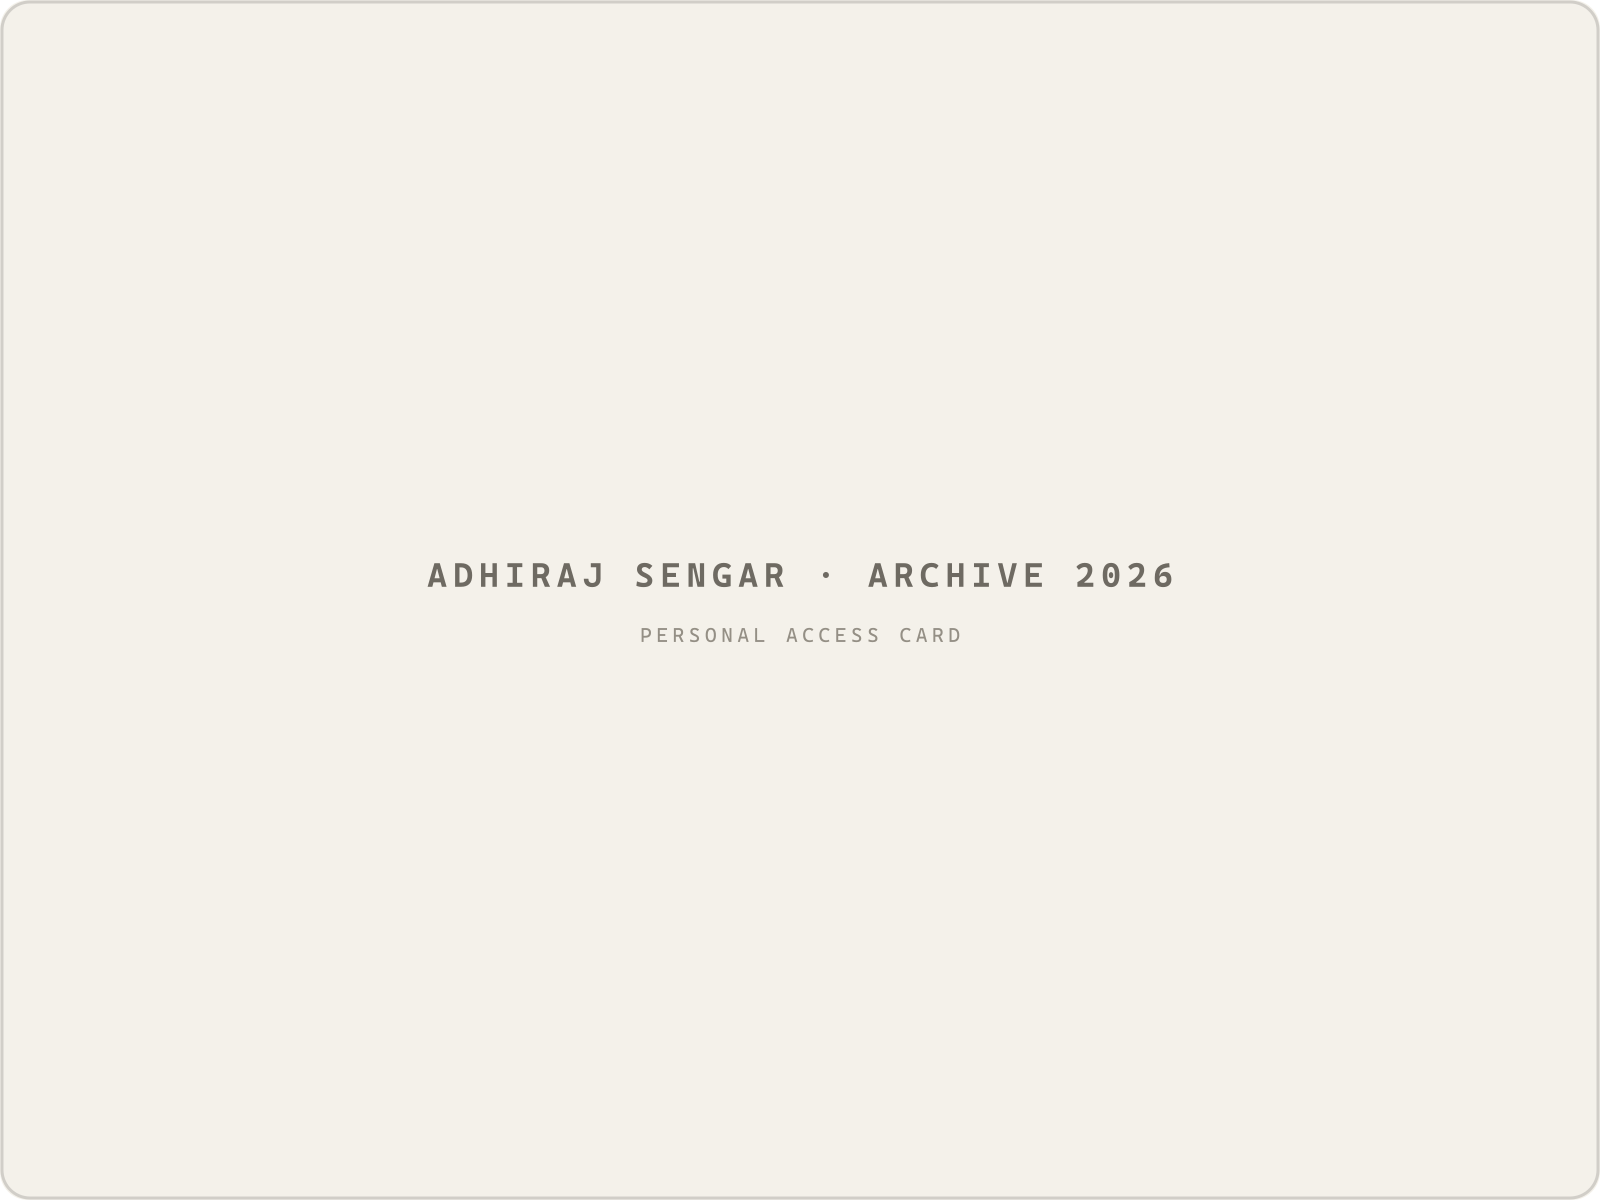
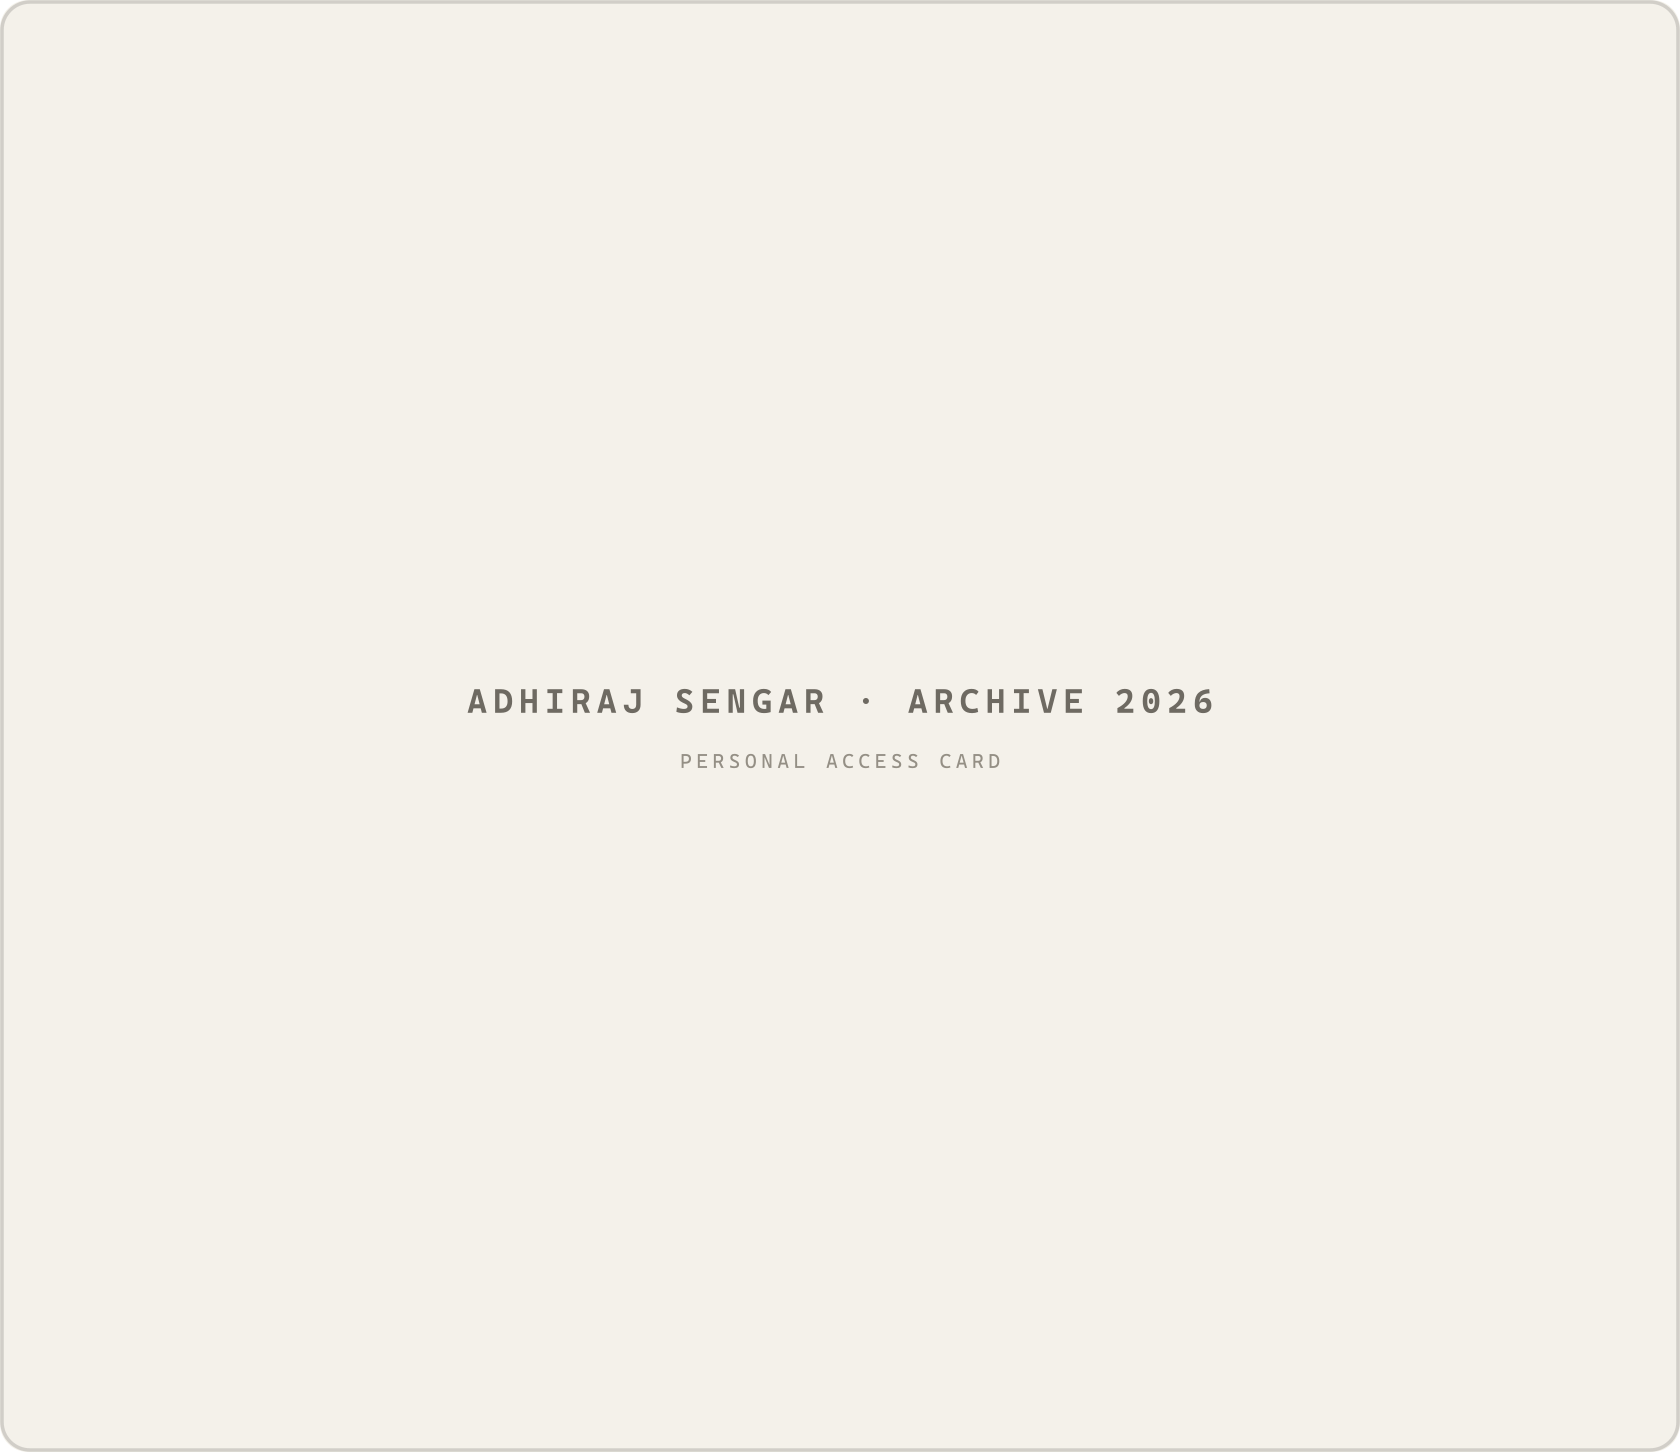
fix(lanyard): derive card height from natural photo aspect ratio and use contain to eliminate distortion

diff --git a/src/components/ui/Lanyard.jsx b/src/components/ui/Lanyard.jsx
@@ -18,6 +18,18 @@ extend({ MeshLineGeometry, MeshLineMaterial });
 useGLTF.preload(cardGLB);
 
 /**
+ * Fit image inside box without distortion (contain)
+ */
+function drawContain(ctx, img, x, y, w, h) {
+  const nw = img.naturalWidth || img.width;
+  const nh = img.naturalHeight || img.height;
+  const s = Math.min(w / nw, h / nh);
+  const dw = nw * s;
+  const dh = nh * s;
+  ctx.drawImage(img, x + (w - dw) / 2, y + (h - dh) / 2, dw, dh);
+}
+
+/**
  * 3D Lanyard ID Badge Component
  * Features:
  * - Orthographic camera (1 world unit = 100 CSS px) for 1:1 DOM matching
@@ -96,7 +108,7 @@ function useMeasuredCoords(targetRef, isMobile) {
     if (isMobile) {
       const sw = typeof window !== 'undefined' ? window.innerWidth : 390;
       const wPx = Math.min(320, sw * 0.78);
-      const hPx = wPx * 0.75;
+      const hPx = wPx * (1452 / 1680);
       return {
         cardW: wPx / 100,
         cardH: hPx / 100,
@@ -110,7 +122,7 @@ function useMeasuredCoords(targetRef, isMobile) {
     }
     return {
       cardW: 4.2,
-      cardH: 3.15,
+      cardH: 3.63,
       restX: 1.15,
       restY: 0.18,
       anchorX: 1.10,
@@ -127,7 +139,7 @@ function useMeasuredCoords(targetRef, isMobile) {
       if (isMobile) {
         const sw = window.innerWidth;
         const wPx = Math.min(320, sw * 0.78);
-        const hPx = wPx * 0.75;
+        const hPx = wPx * (1452 / 1680);
         const mobileContainer = document.querySelector('.hero-lanyard-mobile-container');
         const cH = mobileContainer ? mobileContainer.clientHeight : 420;
         setCoords({
@@ -150,7 +162,7 @@ function useMeasuredCoords(targetRef, isMobile) {
       if (desktopContainer) {
         const containerRect = desktopContainer.getBoundingClientRect();
         let cardWPx = 420;
-        let cardHPx = 315;
+        let cardHPx = 363;
         let targetCenterXPx = containerRect.left + containerRect.width * 0.62;
         let targetCenterYPx = containerRect.top + containerRect.height * 0.48;
 
@@ -158,7 +170,7 @@ function useMeasuredCoords(targetRef, isMobile) {
           const tRect = targetEl.getBoundingClientRect();
           if (tRect.width > 50) {
             cardWPx = tRect.width;
-            cardHPx = tRect.height;
+            cardHPx = cardWPx * (1452 / 1680);
             targetCenterXPx = tRect.left + tRect.width / 2;
             targetCenterYPx = tRect.top + tRect.height / 2;
           }
@@ -283,8 +295,16 @@ function Band({
         }
         if (!active || !img.width) return;
 
-        const W = 1600;
-        const H = 1200;
+        const nw = img.naturalWidth || 800;
+        const nh = img.naturalHeight || 600;
+
+        // Derive card dimensions dynamically from natural aspect ratio of the photo
+        const W = 1680;
+        const padding = 48;
+        const photoW = W - 2 * padding; // 1584
+        const photoH = Math.round(photoW * (nh / nw)); // 1188 for 4:3
+        const captionStripH = 168;
+        const H = padding + photoH + captionStripH + padding; // 1452
 
         // Front Face Canvas
         const cF = document.createElement('canvas');
@@ -303,29 +323,25 @@ function Band({
         ctxF.strokeRect(4, 4, W - 8, H - 8);
 
         // Inset photo frame
-        const padX = 46;
-        const padTop = 46;
-        const photoW = W - padX * 2;
-        const photoH = 955;
-
         ctxF.fillStyle = '#F4F1EA';
-        ctxF.fillRect(padX, padTop, photoW, photoH);
+        ctxF.fillRect(padding, padding, photoW, photoH);
         ctxF.strokeStyle = 'rgba(23, 23, 23, 0.12)';
         ctxF.lineWidth = 3;
-        ctxF.strokeRect(padX, padTop, photoW, photoH);
+        ctxF.strokeRect(padding, padding, photoW, photoH);
 
-        // Draw portrait image
+        // Draw portrait image with contain (never stretch or distort)
         ctxF.save();
         ctxF.beginPath();
-        ctxF.rect(padX + 2, padTop + 2, photoW - 4, photoH - 4);
+        ctxF.rect(padding + 2, padding + 2, photoW - 4, photoH - 4);
         ctxF.clip();
-        ctxF.drawImage(img, padX + 2, padTop + 2, photoW - 4, photoH - 4);
+        drawContain(ctxF, img, padding + 2, padding + 2, photoW - 4, photoH - 4);
         ctxF.restore();
 
         // Bottom polaroid caption: handwriting on left, mono fig label on right
+        const captionCenterY = padding + photoH + captionStripH / 2;
         ctxF.save();
-        ctxF.translate(padX + 20, H - 86);
-        ctxF.rotate(-0.032);
+        ctxF.translate(padding + 20, captionCenterY + 12);
+        ctxF.rotate(-0.026);
         ctxF.font = '500 52px "Caveat", cursive';
         ctxF.fillStyle = '#6E6A62';
         ctxF.textBaseline = 'middle';
@@ -334,11 +350,13 @@ function Band({
 
         ctxF.save();
         ctxF.font = '600 24px "Space Mono", monospace';
-        ctxF.letterSpacing = '5px';
+        if ('letterSpacing' in ctxF) {
+          ctxF.letterSpacing = '4.5px';
+        }
         ctxF.fillStyle = '#77736B';
         ctxF.textAlign = 'right';
         ctxF.textBaseline = 'middle';
-        ctxF.fillText('FIG. 01 / ARTIFACT', W - padX - 20, H - 90);
+        ctxF.fillText('FIG. 01 / ARTIFACT', W - padding - 20, captionCenterY + 8);
         ctxF.restore();
 
         // Back Face Canvas
@@ -356,14 +374,18 @@ function Band({
 
         ctxB.fillStyle = '#6E6A62';
         ctxB.font = '700 32px "Space Mono", monospace';
-        ctxB.letterSpacing = '6px';
+        if ('letterSpacing' in ctxB) {
+          ctxB.letterSpacing = '6px';
+        }
         ctxB.textAlign = 'center';
         ctxB.textBaseline = 'middle';
         ctxB.fillText('ADHIRAJ SENGAR · ARCHIVE 2026', W / 2, H / 2 - 25);
 
         ctxB.fillStyle = '#948F85';
         ctxB.font = '600 20px "Space Mono", monospace';
-        ctxB.letterSpacing = '4.5px';
+        if ('letterSpacing' in ctxB) {
+          ctxB.letterSpacing = '4.5px';
+        }
         ctxB.fillText('PERSONAL ACCESS CARD', W / 2, H / 2 + 35);
 
         const fTex = new THREE.CanvasTexture(cF);

diff --git a/src/components/sections/Hero.tsx b/src/components/sections/Hero.tsx
@@ -220,7 +220,7 @@ export function Hero() {
             {canRenderLanyard ? (
               <div
                 ref={desktopTargetRef}
-                className="hero-badge-target-placeholder w-full max-w-[420px] mx-auto aspect-[4/3] invisible pointer-events-none"
+                className="hero-badge-target-placeholder w-full max-w-[420px] mx-auto aspect-[1680/1452] invisible pointer-events-none"
                 aria-hidden="true"
               />
             ) : (
